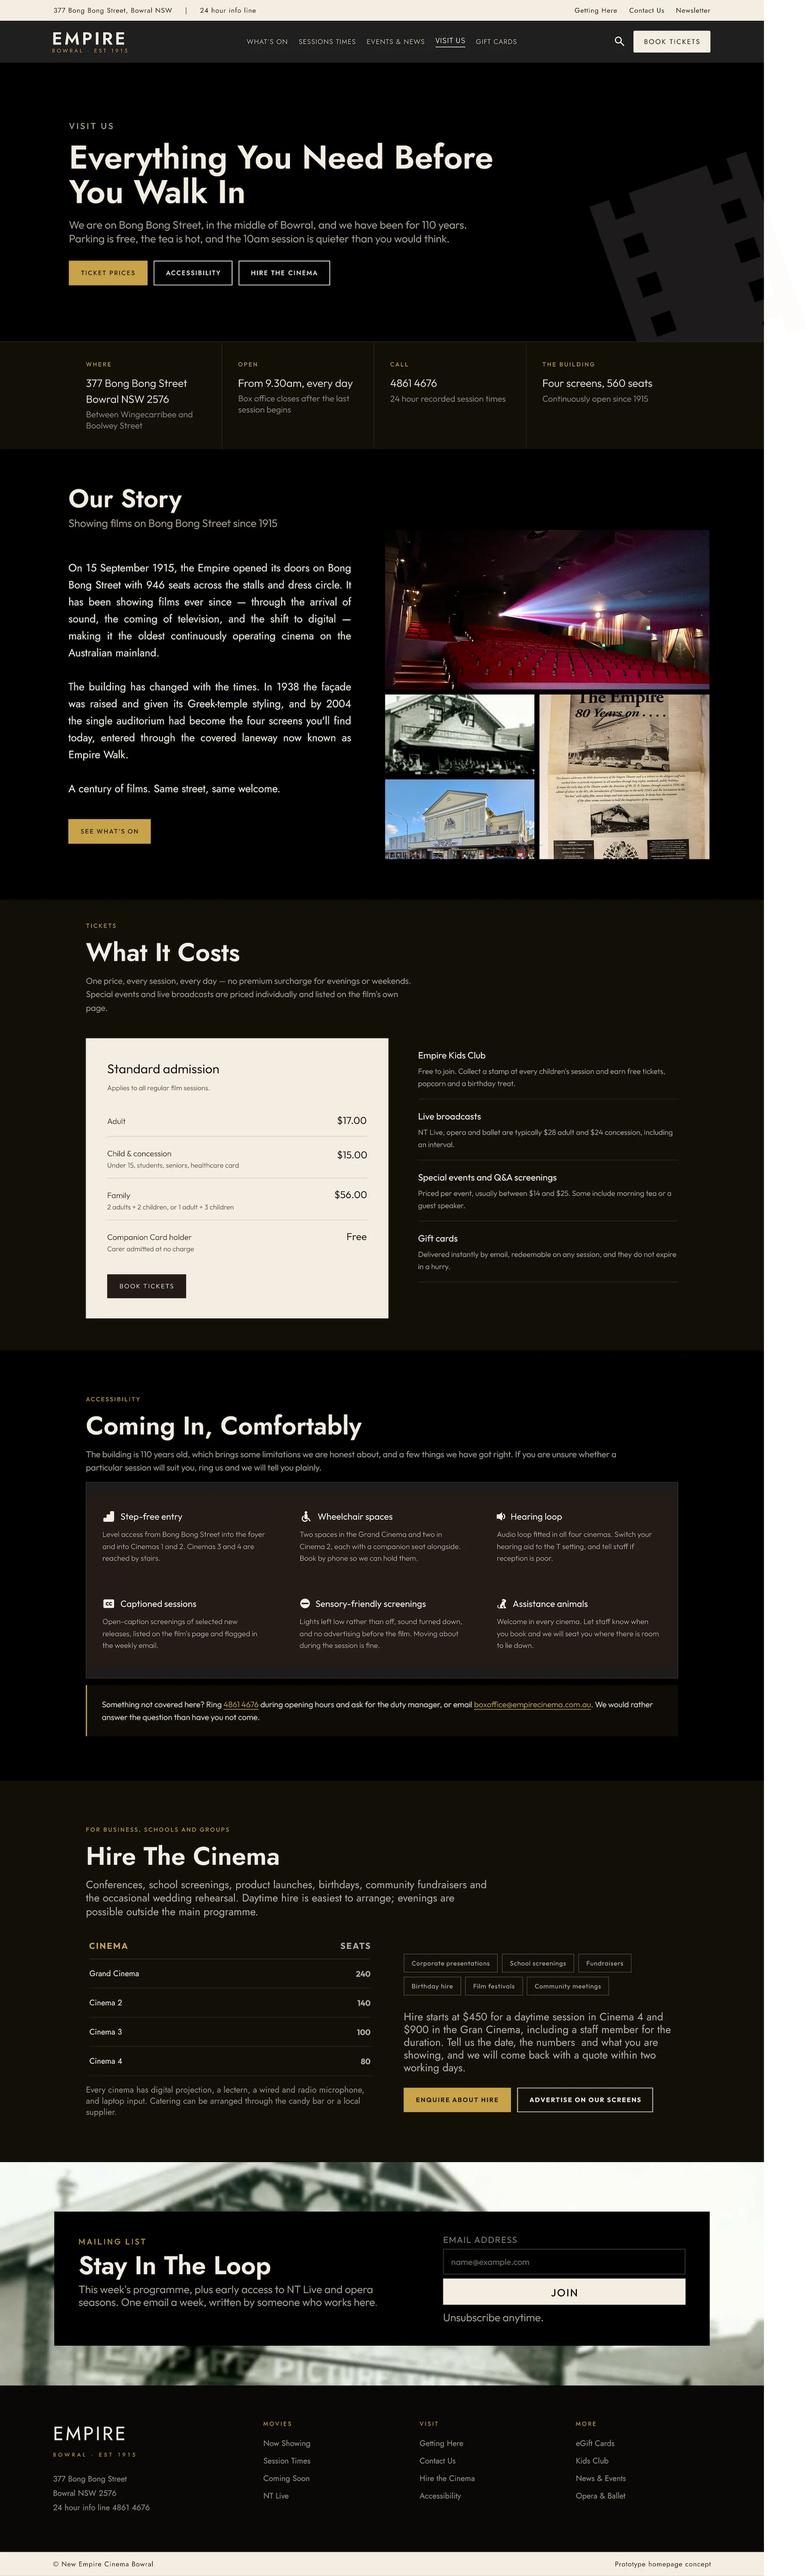
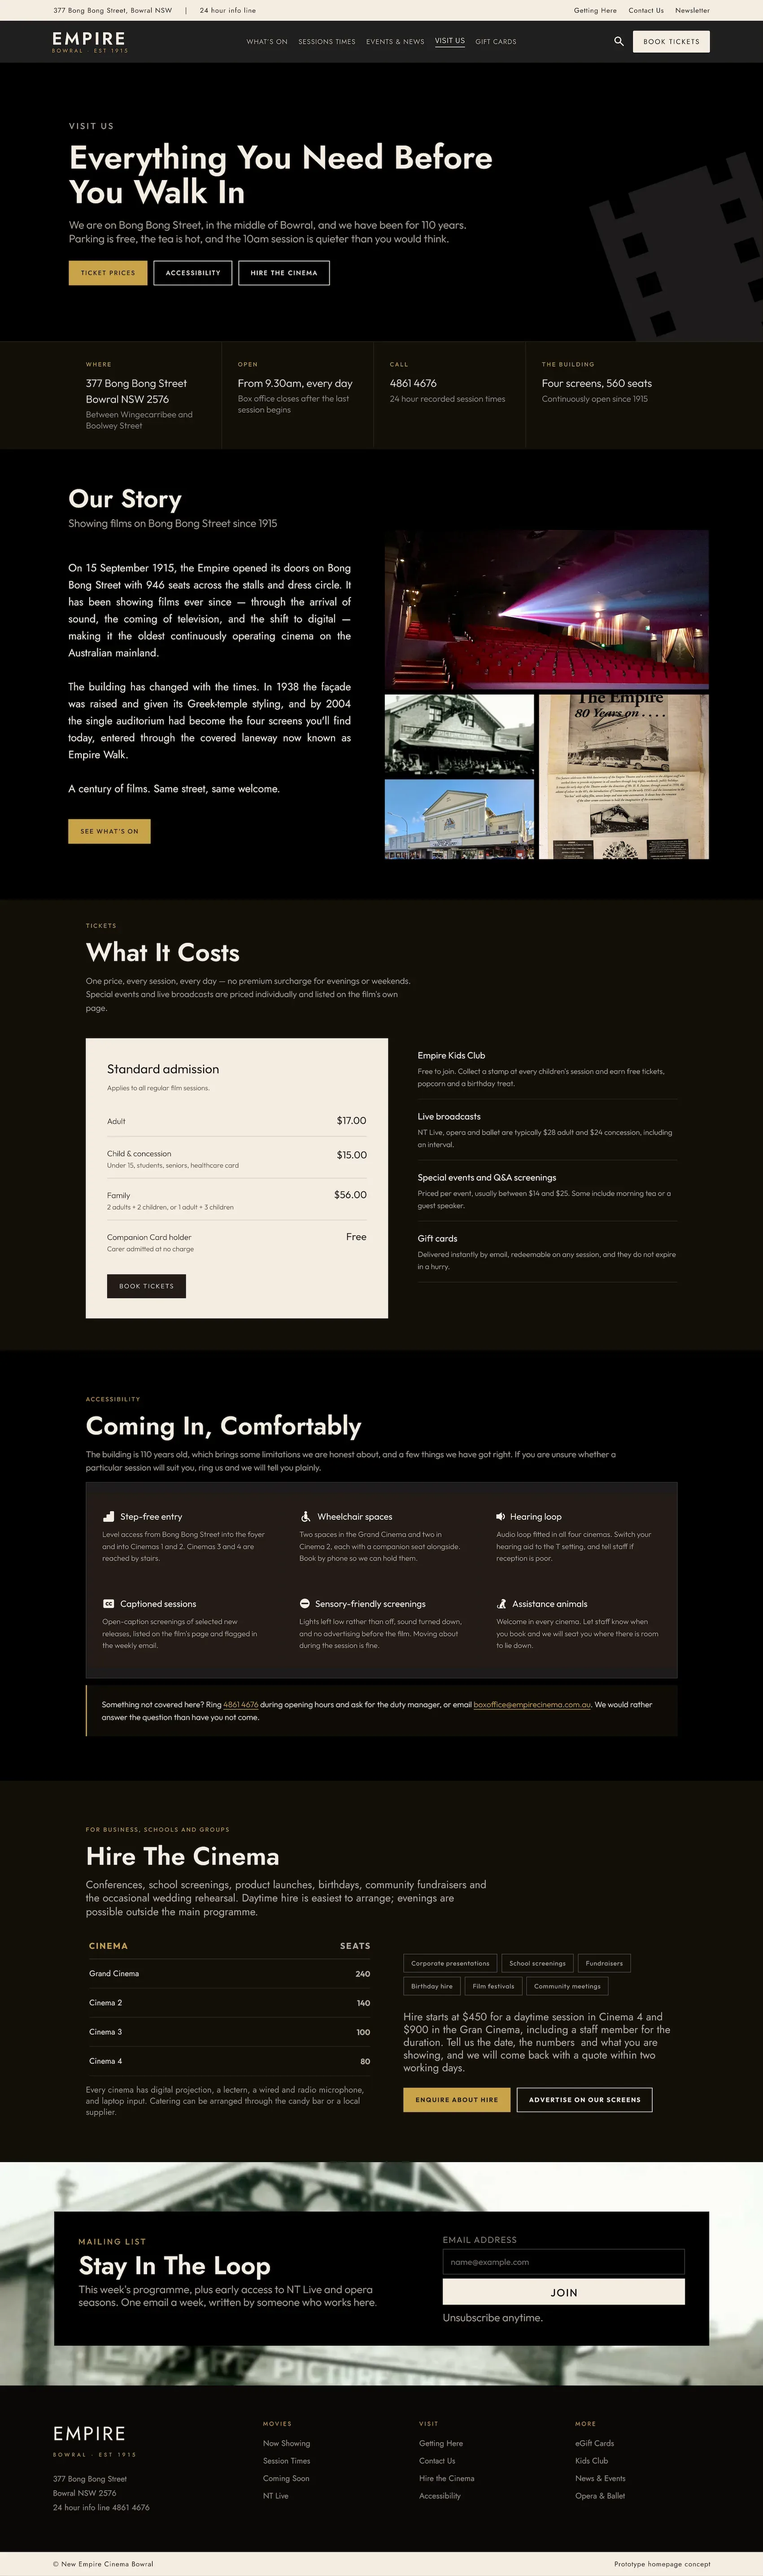
Update Empire Cinema design description and optimize copyright notice for clarity

diff --git a/src/data/design-works.ts b/src/data/design-works.ts
@@ -190,69 +190,74 @@ export const designWorks: DesignWork[] = [
     slug: "design-empire-cinema",
     title: "Empire Cinema",
     description:
-      "A redesign of the Empire Cinema website to improve user experience and showcase upcoming films and events.",
+      "A concept redesign for Australia's oldest continuously running cinema, built around ticket stubs, film stock and a century of history.",
     intro: [
       { type: "heading", level: 2, text: "Overview" },
       {
         type: "paragraph",
-        text: "FCAWA's members are accredited financial counsellors, and they almost always log in to do one specific thing: record CPD hours, find a professional supervisor, or download a particular compliance document. The existing members' area was organised by content type, which meant members had to know which category something had been filed under before they could find it. I designed the information architecture and interface for the portal homepage.",
+        text: "The Empire has been showing films on Bong Bong Street in Bowral since 1915, making it the oldest continuously operating cinema on the Australian mainland. A site like this serves two people at once: the local who wants tonight's session times and nothing else, and the first-time visitor who needs parking, prices and whether the building will work for them. The history is the cinema's biggest asset, and filing it away on an About page wastes it. This is a self-initiated concept, not the current live site.",
       },
       {
         type: "paragraph",
-        text: 'The page opens with "What would you like to do?" — the five highest-frequency tasks placed above the fold and named with verbs rather than section titles. Resources work at two levels: two library entry points for members who want to browse, and six direct tiles beneath for members who already know which document they need, so nobody has to enter a library and filter down to reach a single info sheet. Directories, member news and community sit lower on the page: infrequent, but they still have to be findable. The palette follows the association\'s brand — deep blue, teal and coral — using blocks of colour to separate sections rather than relying on rules and heading hierarchy.',
+        text: "Rather than giving the history its own page, the design works it into the interface: the homepage carousel is built as a ticket stub with perforations and a tear line, the monthly highlight on What's On sits inside a strip of film sprocket holes, and the foot of the homepage carries three numbers — 1915, 110 years, 4 screens — against an archival photograph. A near-black palette with cream and gold leaves the film posters as the only saturated thing on the page. Structurally, session times appear on the second screenful of the homepage with a day switcher, so the most common task needs no navigation at all, and Visit Us collects address, hours, pricing, accessibility and venue hire into one page. The accessibility section names which cinemas are only reachable by stairs rather than claiming the building is step-free — a 110-year-old venue can't be, and saying so is more useful than a blanket statement.",
       },
     ],
-    tags: ["Figma", "UI Design", "Information Architecture", "Design System"],
+    tags: ["Figma", "UI Design", "Art Direction", "Information Architecture"],
     coverImage: "/empire-cover.webp",
     screens: [
       {
         label: "Homepage",
         image: "/empire-home.webp",
-        caption: "Task shortcuts, resource libraries and sector directories.",
-      },
-      {
-        label: "Visit Us",
-        image: "/empire-visit-us.webp",
-        caption: "Task shortcuts, resource libraries and sector directories.",
+        caption:
+          "Ticket-stub carousel, today's sessions, coming soon and the cinema's history.",
       },
       {
         label: "What's On",
         image: "/empire-what's-on.webp",
-        caption: "Task shortcuts, resource libraries and sector directories.",
+        caption:
+          "Monthly highlight, full now-showing list and live broadcast seasons.",
+      },
+      {
+        label: "Visit Us",
+        image: "/empire-visit-us.webp",
+        caption:
+          "Location, ticket pricing, accessibility detail and venue hire.",
       },
     ],
-    color: "from-black to-black",
+    color: "from-neutral-900/40 to-amber-900/20",
   },
   {
     slug: "design-greek-lawyers",
-    title: "Greek Lawyers",
+    title: "Hellenic Australian Lawyers",
     description:
-      "A redesign of the Greek Lawyers website to improve user experience and showcase their services.",
+      "A concept redesign for HAL, a national association of Greek-Australian lawyers running eight state and territory chapters.",
     intro: [
       { type: "heading", level: 2, text: "Overview" },
       {
         type: "paragraph",
-        text: "FCAWA's members are accredited financial counsellors, and they almost always log in to do one specific thing: record CPD hours, find a professional supervisor, or download a particular compliance document. The existing members' area was organised by content type, which meant members had to know which category something had been filed under before they could find it. I designed the information architecture and interface for the portal homepage.",
+        text: "HAL brings together lawyers, judicial officers and law students across Australia, along with anyone else with a connection to Greece. The structural problem is that eight states and territories each run their own chapter, their own committee and their own programme, but there is only one website. People arrive wanting one of three things: to find out whether they can join, to see what's on in their state, or to find a lawyer who speaks Greek. Organising the site around how the association is structured means a visitor has to understand the organisation before they can get to their answer. This is a self-initiated concept, not the live site.",
       },
       {
         type: "paragraph",
-        text: 'The page opens with "What would you like to do?" — the five highest-frequency tasks placed above the fold and named with verbs rather than section titles. Resources work at two levels: two library entry points for members who want to browse, and six direct tiles beneath for members who already know which document they need, so nobody has to enter a library and filter down to reach a single info sheet. Directories, member news and community sit lower on the page: infrequent, but they still have to be findable. The palette follows the association\'s brand — deep blue, teal and coral — using blocks of colour to separate sections rather than relying on rules and heading hierarchy.',
+        text: "The homepage skips that step with \"What brings you to HAL?\" — three routes for practising lawyers, students and people looking for representation, each going straight where it needs to. Chapters aren't eight separate sub-sites but a single grid plus one combined event timeline, with a state tag on every entry, so anyone practising across borders can read the whole country at once. The orations get their own band on the homepage rather than being filed under Insights: they're the association's most substantial content, judges and scholars on the record, and they're free to read and cite. Deep navy with gold-brown throughout, a Greek key pattern as a section divider, olive branches and columns used sparingly. The heritage has to be visible, but it can't outweigh the restraint the profession expects.",
       },
     ],
-    tags: ["Figma", "UI Design", "Information Architecture", "Design System"],
+    tags: ["Figma", "UI Design", "Information Architecture", "Art Direction"],
     coverImage: "/greek-lawyers-cover.webp",
     screens: [
       {
         label: "Homepage",
         image: "/greek-lawyers-home.webp",
-        caption: "Task shortcuts, resource libraries and sector directories.",
+        caption:
+          "Audience routing, upcoming events, published orations and the mentoring programme.",
       },
       {
         label: "Chapter Page",
         image: "/greek-lawyers-chapter.webp",
-        caption: "Task shortcuts, resource libraries and sector directories.",
+        caption:
+          "Eight-chapter directory with a combined, state-tagged event calendar.",
       },
     ],
-    color: "from-blue-950/20 to-teal-800/20",
+    color: "from-blue-950/20 to-amber-900/20",
   },
 ];

diff --git a/src/pages/Design.tsx b/src/pages/Design.tsx
@@ -20,11 +20,10 @@ const Design = () => {
             <div className="mt-8 rounded-lg border border-border bg-secondary/40 px-4 py-3 flex gap-3 text-left">
               <Info className="w-4 h-4 mt-0.5 text-muted-foreground shrink-0" />
               <p className="text-sm text-muted-foreground">
-                The work shown on this page is from projects that have been
-                publicly launched. Copyright in these works is owned by
-                Agileware Pty Ltd. They are presented here solely to illustrate
-                my role and contribution, and do not constitute any licence,
-                assignment, or offer for commercial use.
+                Copyright in these works is owned by Agileware Pty Ltd. They are
+                presented here solely to illustrate my role and contribution,
+                and do not constitute any licence, assignment, or offer for
+                commercial use.
               </p>
             </div>
           </div>
